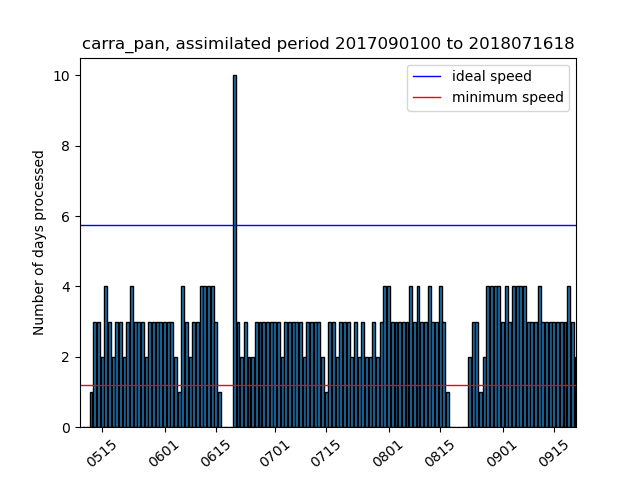
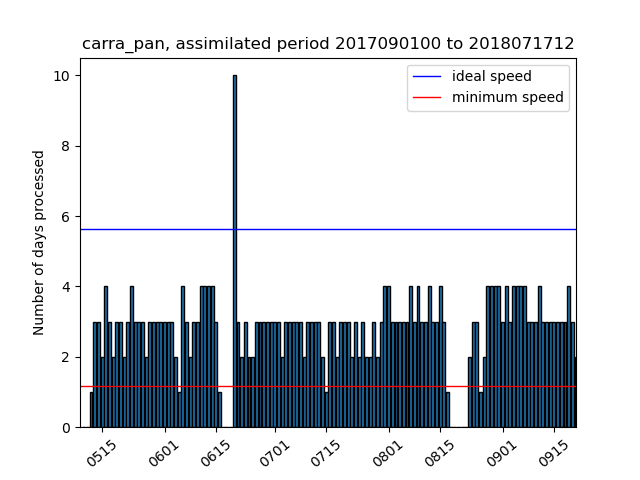
update repo

Changed region(s): [[0.125, 0.7812, 0.9062, 0.8125], [0.125, 0.4688, 0.9062, 0.5], [0.8438, 0.0625, 0.9062, 0.0938]]

diff --git a/current_state_sims.html b/current_state_sims.html
@@ -2,18 +2,18 @@
 <h1>Estimated completion dates and simulation speeds</h1>
 <p>Stream (production) completion date based on 30d (7d) moving avg speed</p>
 <p><a href="https://docs.google.com/document/d/1zDKAxuEXYnWWYzT3SZnZwY5WW8nodUMeYRjAGz46coc/edit#">Details of the calculation of the completion dates</a></p>
-<p>Last update: 2021/09/22 06:44:05 UTC</p>
+<p>Last update: 2021/09/22 12:42:32 UTC</p>
 <p>Total progress CARRA: 99.22% <a href="https://hirlam.org/portal/CARRA/Progress/GanntChart_CARRA.html"> (see detailed progress meter in Gantt chart) </a></p>
 <p>Total progress PANARCTIC: 90.91% </p>
 <p><a href="https://hirlam.org/portal/CARRA/Progress/waiting_times.html"> Queue waiting times for all streams</a></p>
 <p><a href="https://hirlam.org/portal/CARRA/Progress/mars_status.html"> MARS archive throughput </a></p>
 <html><table border="1"><tr><th>expId</th><th>Current assimilated date</th><th>End date of stream </th><th> Completion date</th><th> Avg. throughput (7d) </th> <th>Avg. throughput (30d) </th> <th> Remarks</tr>
-<tr bgcolor="#FFFFFF"><td>carra_NE_3</td><td>2021063000</td><td>2021063021</td><td>2021092206</td><td>(4.86) days/day</td><td>(3.63) days/day</td><td></tr>
-<tr bgcolor="#33FF38"><td>carra_NE_4</td><td>1992090100</td><td>1992083021</td><td>2021091619</td><td>(0.0) days/day</td><td>(0.37) days/day</td><td>Stream finished</tr>
-<tr bgcolor="#33FF38"><td>carra_NE_5</td><td>1994090100</td><td>1994083021</td><td>2021091723</td><td>(0.0) days/day</td><td>(0.47) days/day</td><td>Stream finished</tr>
-<tr bgcolor="#33FF38"><td>carra_NE_6</td><td>1997070100</td><td>1997063021</td><td>2021092202</td><td>(0.86) days/day</td><td>(5.63) days/day</td><td>Stream finished</tr>
-<tr bgcolor="#FFFFFF"><td>carra_IGB_3</td><td>2021063000</td><td>2021063021</td><td>2021092206</td><td>(5.43) days/day</td><td>(3.47) days/day</td><td></tr>
-<tr bgcolor="#33FF38"><td>carra_IGB_4</td><td>1992090100</td><td>1992083021</td><td>2021092116</td><td>(0.0) days/day</td><td>(3.37) days/day</td><td>Stream finished</tr>
-<tr bgcolor="#FFFFFF"><td>carra_IGB_5</td><td>1994081312</td><td>1994083021</td><td>2021092503</td><td>(5.86) days/day</td><td>(5.9) days/day</td><td></tr>
-<tr bgcolor="#FFA500"><td>carra_IGB_6</td><td>1996110709</td><td>1997063021</td><td>2021110108</td><td>(5.57) days/day</td><td>(5.87) days/day</td><td>Completion date after project end (20211031)</tr>
-<tr bgcolor="#FFFFFF"><td>carra_pan</td><td>2018071618</td><td>2018083121</td><td>2021100615</td><td>(3.0) days/day</td><td>(3.2) days/day</td><td></tr>
+<tr bgcolor="#FFFFFF"><td>carra_NE_3</td><td>2021063000</td><td>2021063021</td><td>2021092212</td><td>(4.86) days/day</td><td>(3.63) days/day</td><td></tr>
+<tr bgcolor="#33FF38"><td>carra_NE_4</td><td>1992090100</td><td>1992083021</td><td>2021091701</td><td>(0.0) days/day</td><td>(0.37) days/day</td><td>Stream finished</tr>
+<tr bgcolor="#33FF38"><td>carra_NE_5</td><td>1994090100</td><td>1994083021</td><td>2021091805</td><td>(0.0) days/day</td><td>(0.47) days/day</td><td>Stream finished</tr>
+<tr bgcolor="#33FF38"><td>carra_NE_6</td><td>1997070100</td><td>1997063021</td><td>2021092208</td><td>(0.86) days/day</td><td>(5.63) days/day</td><td>Stream finished</tr>
+<tr bgcolor="#FFFFFF"><td>carra_IGB_3</td><td>2021063000</td><td>2021063021</td><td>2021092212</td><td>(5.43) days/day</td><td>(3.47) days/day</td><td></tr>
+<tr bgcolor="#33FF38"><td>carra_IGB_4</td><td>1992090100</td><td>1992083021</td><td>2021092122</td><td>(0.0) days/day</td><td>(3.37) days/day</td><td>Stream finished</tr>
+<tr bgcolor="#FFFFFF"><td>carra_IGB_5</td><td>1994081500</td><td>1994083021</td><td>2021092501</td><td>(5.86) days/day</td><td>(5.9) days/day</td><td></tr>
+<tr bgcolor="#FFA500"><td>carra_IGB_6</td><td>1996110900</td><td>1997063021</td><td>2021110105</td><td>(5.57) days/day</td><td>(5.87) days/day</td><td>Completion date after project end (20211031)</tr>
+<tr bgcolor="#FFFFFF"><td>carra_pan</td><td>2018071712</td><td>2018083121</td><td>2021100614</td><td>(3.0) days/day</td><td>(3.2) days/day</td><td></tr>
